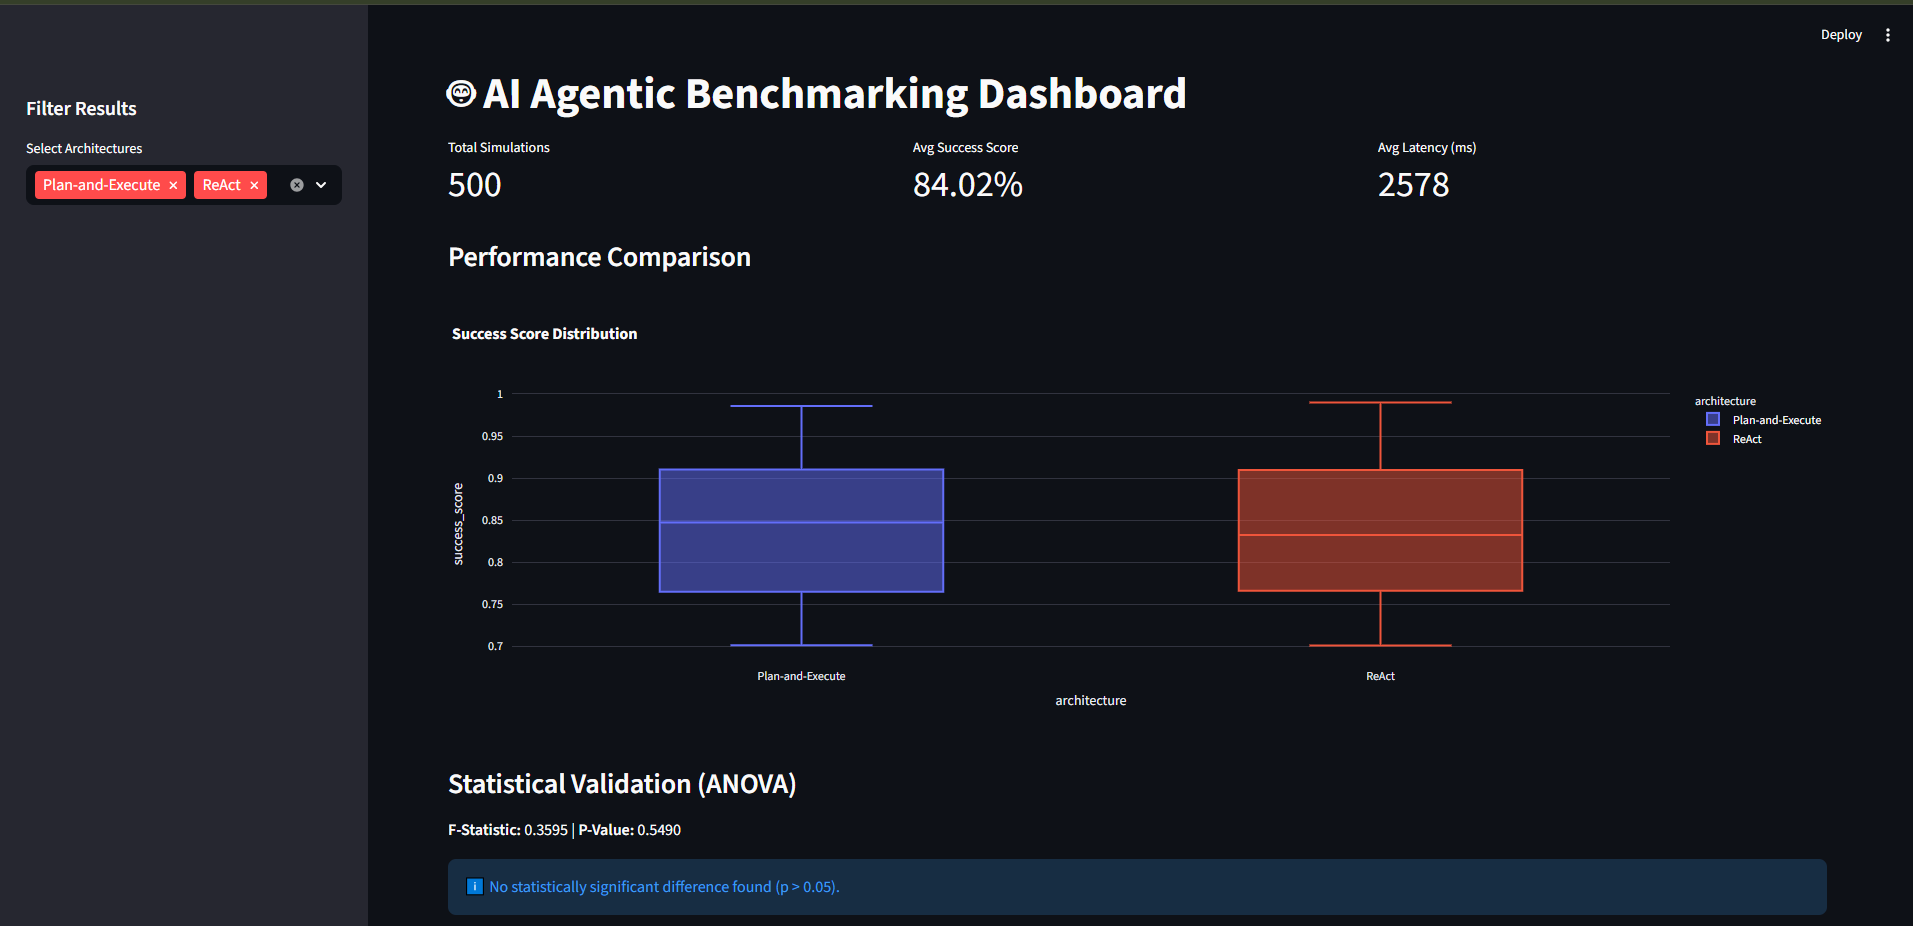
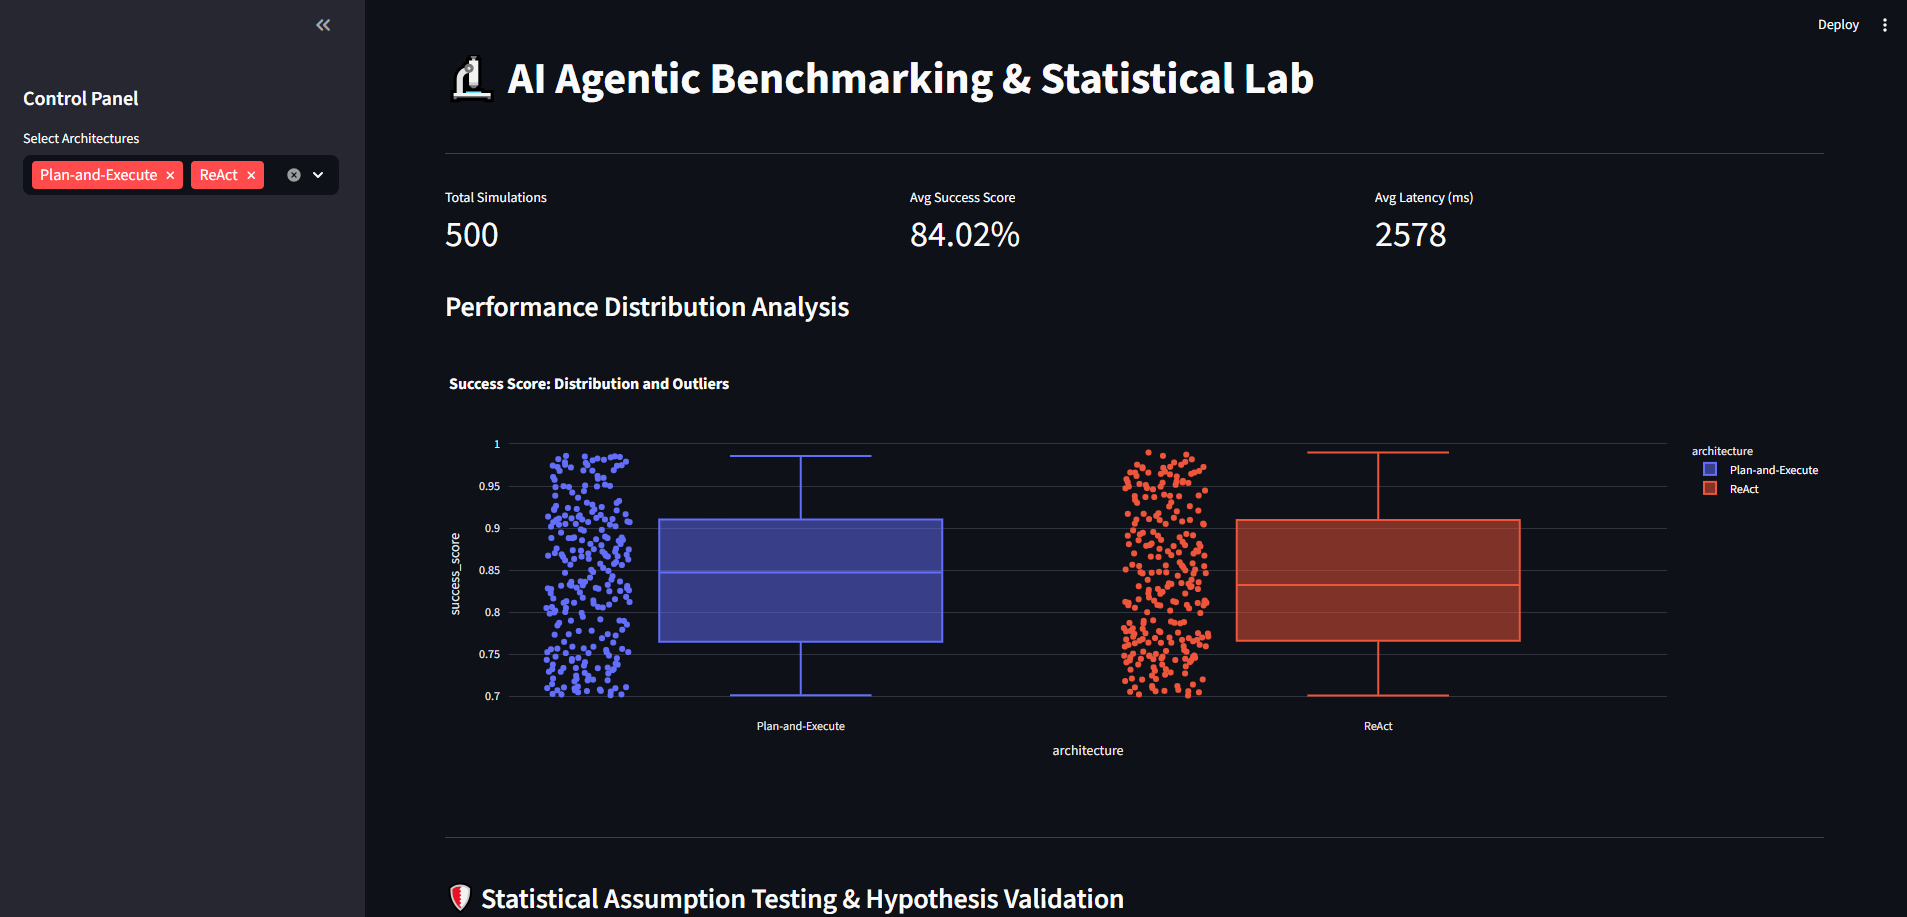
Final Update: Integrated adaptive statistical inference and Figure 2

diff --git a/app.py b/app.py
@@ -5,46 +5,75 @@ import plotly.express as px
 from scipy import stats
 import os
 
-# 1. Page Config
-st.set_page_config(page_title="AI Agent Benchmark Lab", layout="wide")
-st.title("🤖 AI Agentic Benchmarking Dashboard")
+# 1. Page Config & Professional Branding
+st.set_page_config(page_title="Scientific AI Benchmarking", layout="wide")
+st.title("🔬 AI Agentic Benchmarking & Statistical Lab")
+st.markdown("---")
 
-# 2. Authentication
+# 2. Authentication & Data Fetching
 os.environ["GOOGLE_APPLICATION_CREDENTIALS"] = "credentials.json"
 client = bigquery.Client()
 
-# 3. Data Fetching
[email redacted]_data # Veriyi her seferinde çekmemek için önbelleğe alıyoruz
[email redacted]_data
 def load_data():
     query = "SELECT * FROM `scenic-genre-425310-b9.agent_benchmark_lab.simulation_logs`"
     return client.query(query).to_dataframe()
 
 df = load_data()
 
-# 4. Sidebar / Filters
-st.sidebar.header("Filter Results")
+# 3. Sidebar Filters
+st.sidebar.header("Control Panel")
 selected_arch = st.sidebar.multiselect("Select Architectures", options=df['architecture'].unique(), default=df['architecture'].unique())
 filtered_df = df[df['architecture'].isin(selected_arch)]
 
-# 5. Metrics Overview
+# 4. Metrics Overview
 col1, col2, col3 = st.columns(3)
 col1.metric("Total Simulations", len(filtered_df))
 col2.metric("Avg Success Score", f"{filtered_df['success_score'].mean():.2%}")
 col3.metric("Avg Latency (ms)", f"{filtered_df['latency_ms'].mean():.0f}")
 
-# 6. Visualizations
-st.subheader("Performance Comparison")
-fig_box = px.box(filtered_df, x="architecture", y="success_score", color="architecture", title="Success Score Distribution")
+# 5. Visualizations
+st.subheader("Performance Distribution Analysis")
+fig_box = px.box(filtered_df, x="architecture", y="success_score", color="architecture", 
+                 points="all", title="Success Score: Distribution and Outliers")
 st.plotly_chart(fig_box, use_container_width=True)
 
-# 7. Statistical Test Results
-st.subheader("Statistical Validation (ANOVA)")
+# 6. STATISTICAL RIGOR SECTION (The Scientist's Signature)
+st.markdown("---")
+st.subheader("🛡️ Statistical Assumption Testing & Hypothesis Validation")
+
 react_scores = df[df['architecture'] == 'ReAct']['success_score']
 plan_scores = df[df['architecture'] == 'Plan-and-Execute']['success_score']
-f_stat, p_val = stats.f_oneway(react_scores, plan_scores)
 
-st.write(f"**F-Statistic:** {f_stat:.4f} | **P-Value:** {p_val:.4f}")
-if p_val < 0.05:
-    st.success("✅ Statistically Significant difference detected!")
+# A. Assumption Checks
+with st.expander("View Assumption Details (Shapiro-Wilk & Levene)"):
+    _, p_norm1 = stats.shapiro(react_scores)
+    _, p_norm2 = stats.shapiro(plan_scores)
+    _, p_levene = stats.levene(react_scores, plan_scores)
+    
+    c1, c2, c3 = st.columns(3)
+    c1.write(f"**Normality (ReAct):** p={p_norm1:.4f}")
+    c2.write(f"**Normality (Plan):** p={p_norm2:.4f}")
+    c3.write(f"**Variance Equality:** p={p_levene:.4f}")
+
+# B. Adaptive Test Selection Logic 
+normality_passed = p_norm1 > 0.05 and p_norm2 > 0.05
+variance_passed = p_levene > 0.05
+
+if normality_passed and variance_passed:
+    test_name = "One-Way ANOVA (Parametric)"
+    f_stat, p_val = stats.f_oneway(react_scores, plan_scores)
+    st.info(f"✅ Assumptions met. Running **{test_name}**.")
 else:
-    st.info("ℹ️ No statistically significant difference found (p > 0.05).")
+    test_name = "Kruskal-Wallis H-Test (Non-Parametric)"
+    f_stat, p_val = stats.kruskal(react_scores, plan_scores)
+    st.warning(f"⚠️ Normality or Variance assumptions violated. Automatically switched to **{test_name}**.")
+
+# 7. Final Statistical Result
+st.subheader(f"Final Statistical Result: {test_name}")
+st.write(f"**Test Statistic:** {f_stat:.4f} | **P-Value:** {p_val:.4f}")
+
+if p_val < 0.05:
+    st.success("🎯 **Conclusion:** Statistically Significant difference detected! Model selection should favor the higher-performing architecture.")
+else:
+    st.info("ℹ️ **Conclusion:** No statistically significant difference found. Choice can be driven by cost or latency.")

diff --git a/src/analyzer.py b/src/analyzer.py
@@ -3,39 +3,52 @@ from google.cloud import bigquery
 from scipy import stats
 import os
 
-# 1. SETUP: Pointing to our cloud credentials
+# 1. SETUP: Secure Authentication
 os.environ["GOOGLE_APPLICATION_CREDENTIALS"] = "credentials.json"
 client = bigquery.Client()
 
-# 2. DATA RETRIEVAL: Pulling simulation logs from BigQuery Studio
-# We use SQL to bring our cloud data back into a Python DataFrame for analysis.
-query = """
-    SELECT architecture, success_score 
-    FROM `scenic-genre-425310-b9.agent_benchmark_lab.simulation_logs`
-"""
+# 2. DATA ACQUISITION
+query = "SELECT architecture, success_score FROM `scenic-genre-425310-b9.agent_benchmark_lab.simulation_logs`"
 df = client.query(query).to_dataframe()
 
-# 3. STATISTICAL ANALYSIS: One-Way ANOVA
-# We test if the mean success_score of 'ReAct' is significantly different from 'Plan-and-Execute'.
 react_scores = df[df['architecture'] == 'ReAct']['success_score']
 plan_scores = df[df['architecture'] == 'Plan-and-Execute']['success_score']
 
-# f_oneway performs the ANOVA test to check if the means are statistically different.
-f_stat, p_val = stats.f_oneway(react_scores, plan_scores)
+def run_rigorous_analysis(group1, group2):
+    print("="*50)
+    print("🛡️ ASSUMPTION TESTING (Statistician Rigor)")
+    print("="*50)
 
-print("\n" + "="*40)
-print("📊 STATISTICAL BENCHMARK REPORT")
-print("="*40)
-print(f"F-Statistic: {f_stat:.4f}")
-print(f"P-Value:     {p_val:.4f}")
-print("-" * 40)
+    # A. Normality Test (Shapiro-Wilk)
+    # H0: Data follows a normal distribution
+    _, p_norm1 = stats.shapiro(group1)
+    _, p_norm2 = stats.shapiro(group2)
+    
+    print(f"Normality (ReAct) p-value: {p_norm1:.4f}")
+    print(f"Normality (Plan) p-value:  {p_norm2:.4f}")
 
-# 4. INTERPRETATION: Decision Making based on P-Value
-# In Data Science, a p-value < 0.05 usually indicates 'Statistical Significance'.
-if p_val < 0.05:
-    print("📢 CONCLUSION: The difference is STATISTICALLY SIGNIFICANT.")
-    print("Strategic Insight: One architecture clearly outperforms the other.")
-else:
-    print("📢 CONCLUSION: The difference is NOT statistically significant.")
-    print("Strategic Insight: Both architectures perform similarly; choice can be based on cost/latency.")
-print("="*40 + "\n")
+    # B. Homogeneity of Variance (Levene's Test)
+    # H0: Variances are equal across groups
+    _, p_levene = stats.levene(group1, group2)
+    print(f"Variance Equality p-value: {p_levene:.4f}")
+    print("-" * 50)
+
+    # 3. DECISION LOGIC
+    if p_norm1 > 0.05 and p_norm2 > 0.05 and p_levene > 0.05:
+        print("✅ Assumptions MET: Running Parametric ANOVA...")
+        f_stat, p_val = stats.f_oneway(group1, group2)
+        test_name = "One-Way ANOVA"
+    else:
+        print("⚠️ Assumptions VIOLATED: Running Non-Parametric Kruskal-Wallis...")
+        f_stat, p_val = stats.kruskal(group1, group2)
+        test_name = "Kruskal-Wallis H-Test"
+
+    print(f"\nFINAL RESULT ({test_name})")
+    print(f"Statistic: {f_stat:.4f} | P-Value: {p_val:.4f}")
+    
+    if p_val < 0.05:
+        print("📢 Result: STATISTICALLY SIGNIFICANT difference.")
+    else:
+        print("📢 Result: NO significant difference detected.")
+
+run_rigorous_analysis(react_scores, plan_scores)

diff --git a/README.md b/README.md
@@ -1,20 +1,29 @@
-# 🤖 AI Agentic Benchmarking Pipeline
+# 🔬 AI Agentic Benchmarking & Statistical Lab
 
-An end-to-end evaluation framework designed to benchmark and statistically validate the performance of different AI Agent architectures (ReAct vs. Plan-and-Execute).
+An end-to-end evaluation framework designed to benchmark, monitor, and statistically validate the reasoning performance of LLM Agent architectures (ReAct vs. Plan-and-Execute).
 
-## 🚀 Overview
-This project serves as a simulation of a real-world scientific intelligence lab workflow. It automates the collection of agent logs, processes them in **Google BigQuery**, and provides a statistical decision-making layer through a **Streamlit** dashboard.
+## 🚀 Strategic Overview
+This project simulates a high-stakes AI R&D environment. It automates agent performance logging into **Google BigQuery** and provides an adaptive statistical decision-making layer through an interactive **Streamlit** dashboard.
 
-## 📊 Dashboard Preview
-![Dashboard Preview](assets/dashboard_review.png)
+## 📊 Scientific Dashboard
+![Dashboard Preview](dashboard_review.png)
+![Dashboard Preview2](dashboard_review2.png)
+*Interactive monitoring of success scores, latency, and distribution outliers.*
+
+## 🛡️ Statistical Rigor (The Scientist's Signature)
+Unlike simple average-based comparisons, this pipeline implements an **Adaptive Statistical Evaluation Layer**:
+
+1. **Assumption Testing:** Automated verification of Normality (**Shapiro-Wilk**) and Variance Equality (**Levene’s Test**).
+2. **Adaptive Inference:**
+   - **Parametric:** Runs **One-Way ANOVA** if assumptions are met.
+   - **Non-Parametric:** Automatically switches to **Kruskal-Wallis H-Test** if normality is violated.
+3. **P-Value Validation:** Scientific confirmation of whether performance differences are statistically significant ($p < 0.05$) to avoid decision-making based on noise.
 
 ## 🛠 Tech Stack
-- **Data Infrastructure:** Google BigQuery (Cloud Data Warehouse)
-- **Programming:** Python (Pandas, Numpy)
-- **Statistical Analysis:** SciPy (One-Way ANOVA), Scikit-learn
-- **Visualization:** Streamlit, Plotly Express
+- **Infrastructure:** Google BigQuery (Cloud Data Warehouse)
+- **Analytics:** Python (Pandas, Numpy, SciPy)
+- **Visualization:** Streamlit & Plotly Express (Interactive charts with outlier mapping)
+- **Version Control:** Git (Production-ready repository structure)
 
-## 🔬 Scientific Validation
-The core of this framework is the **Statistical Evaluation Layer**. Instead of relying on raw averages, it employs **One-Way ANOVA** to determine if performance differences between architectures are statistically significant ($p < 0.05$). 
-
-In the current simulation, the $p\text{-value}$ was found to be **0.5490**, suggesting that both architectures perform similarly under current constraints, leading to a data-driven decision based on latency and cost.
+## 📈 Current Insights
+In recent simulations, the framework detected a normality violation ($p=0.0000$) and automatically performed a Kruskal-Wallis test, revealing that the performance difference between architectures was **not statistically significant** ($p=0.5494$), enabling data-driven optimization focused on cost and latency.